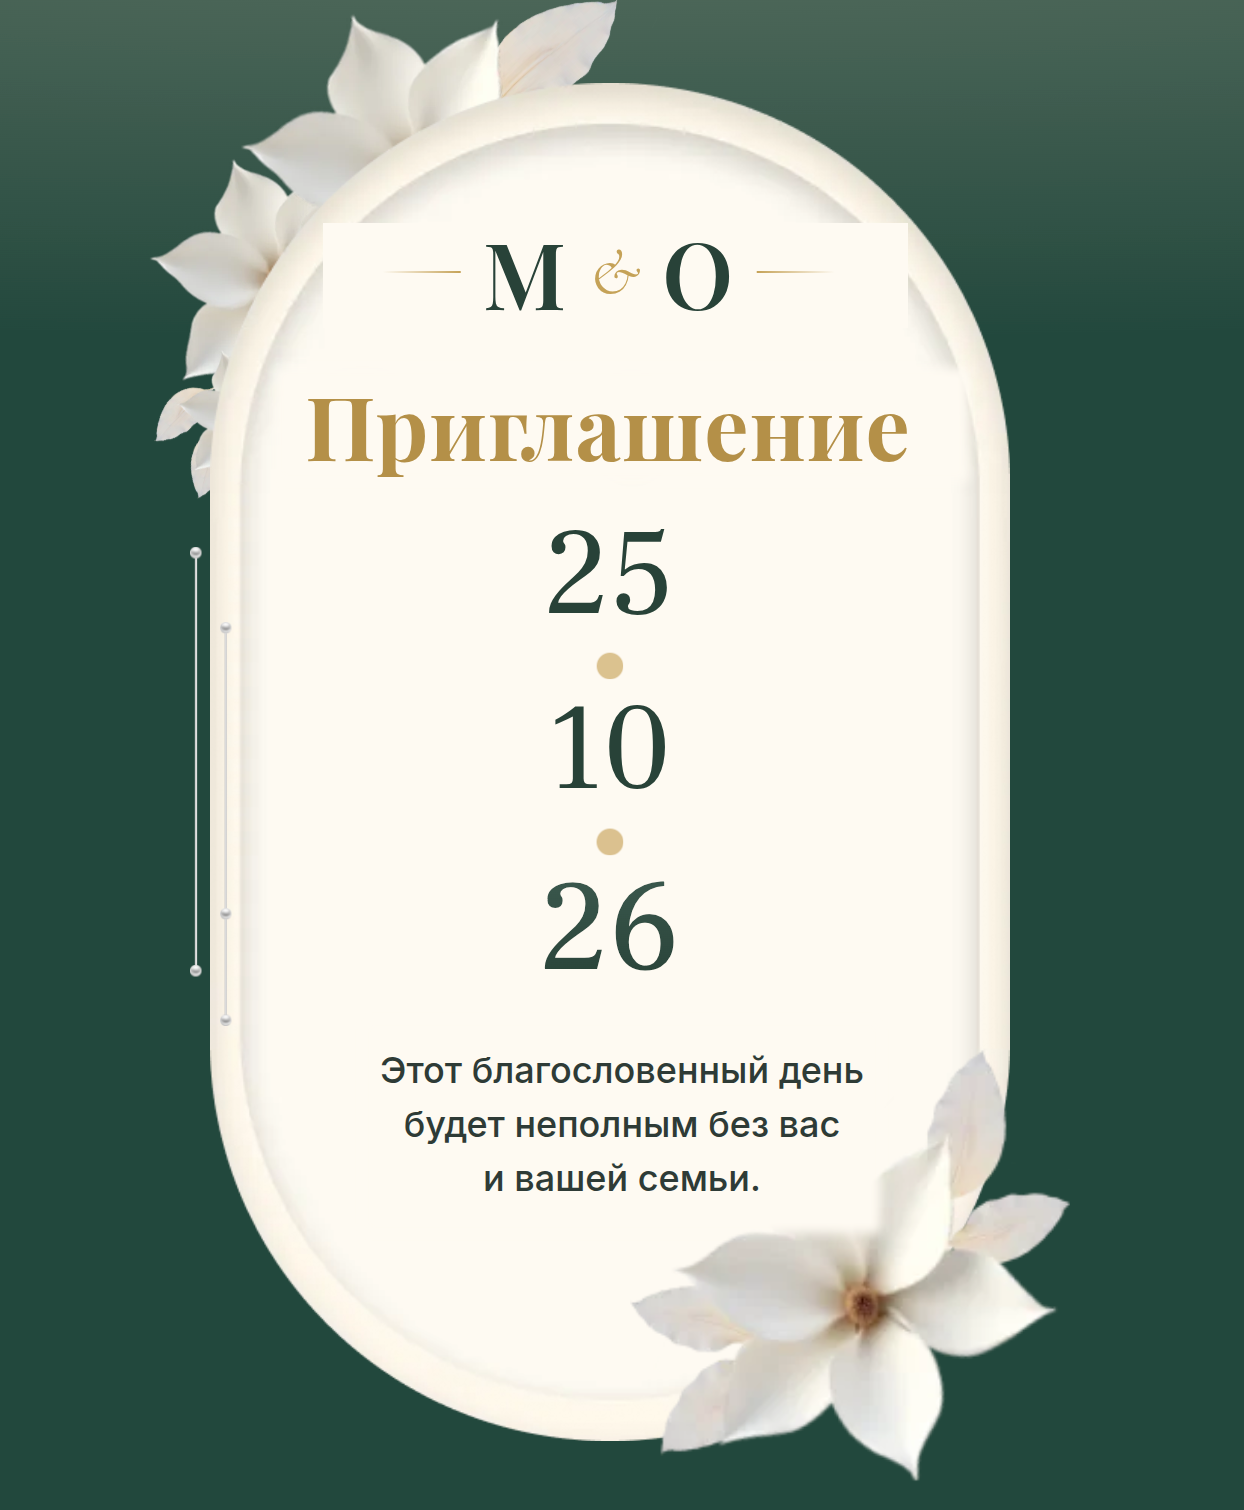
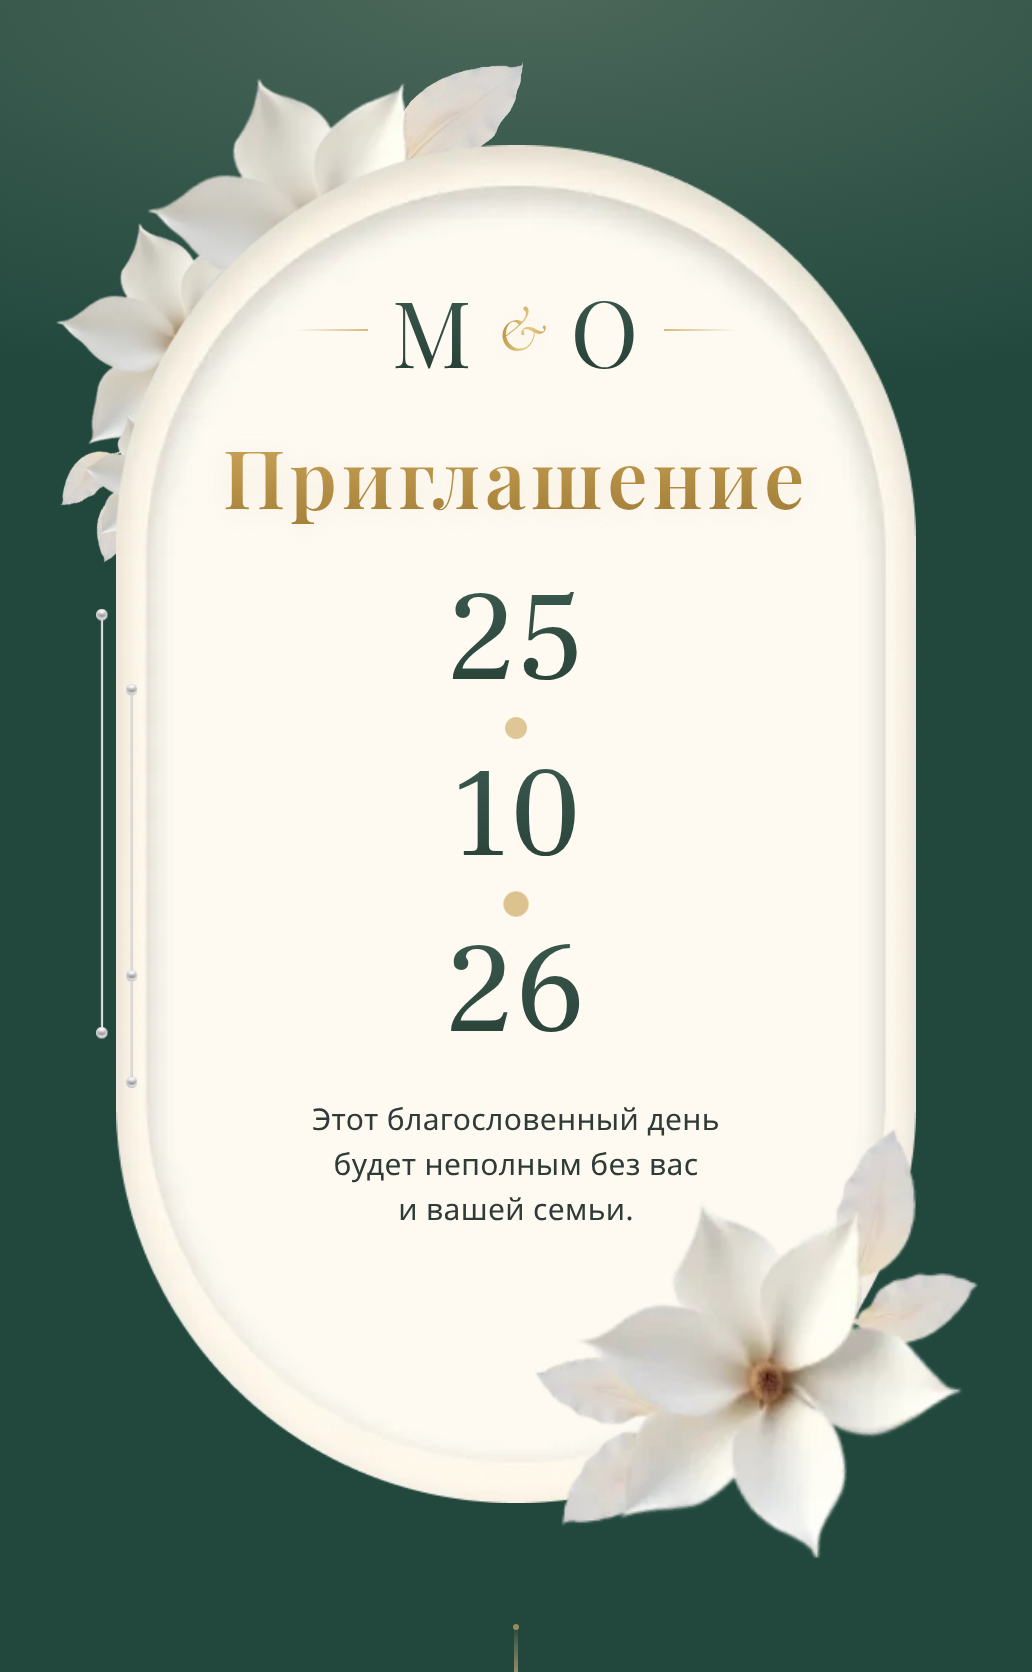
preview image fix

Changed region(s): [[0.062, 0.0, 0.9612, 0.996], [0.2171, 0.249, 0.7752, 0.3113], [0.4961, 0.996, 0.5271, 1.0]]

diff --git a/src/App.jsx b/src/App.jsx
@@ -4,6 +4,7 @@ import ScrollHint from './components/ScrollHint'
 import InvitationCard from './components/InvitationCard'
 import Divider from './components/Divider'
 import Greeting from './components/Greeting'
+import Timeline from './components/Timeline'
 import Countdown from './components/Countdown'
 import LocationMap from './components/LocationMap'
 import LightReflector from './components/LightReflector'
@@ -52,6 +53,8 @@ export default function App() {
         <InvitationCard name={name} start={!loading} />
         <Divider />
         <Greeting name={name} />
+        <Divider />
+        <Timeline />
         <Divider />
         <Countdown />
         <Divider />

diff --git a/src/lib/config.js b/src/lib/config.js
@@ -23,8 +23,7 @@ export const LOCATION_TITLE = 'Адрес: "Улица Сулейманова, 1
 
 // Program of the day (label + time). Edit / add / remove freely.
 export const STAGES = [
-  { label: 'Утренний завтрак', time: '07:00', side: 'left' },
-  { label: 'Для женщин:\n(без тугуна)', time: '10:00', side: 'right' },
+  { label: 'Для женщин:\n(без тугуна)', time: '13:00', side: 'right' },
   // { label: 'Друзья жениха', time: '13:00', side: 'left' },
   // { label: 'Фуршет\nманзил: Исхака Раззакова, 23\n“Орто Азия”', time: '16:00', side: 'right' },
 ]

diff --git a/index.html b/index.html
@@ -29,8 +29,8 @@
     <meta property="og:image" content="https://muhammadqodir-wedding.prolabagency.com/og-image-v2.png" />
     <meta property="og:image:secure_url" content="https://muhammadqodir-wedding.prolabagency.com/og-image-v2.png" />
     <meta property="og:image:type" content="image/png" />
-    <meta property="og:image:width" content="1244" />
-    <meta property="og:image:height" content="1510" />
+    <meta property="og:image:width" content="1032" />
+    <meta property="og:image:height" content="1672" />
     <meta property="og:image:alt" content="Приглашение — М & О" />
     <meta property="og:locale" content="ru_RU" />
 
